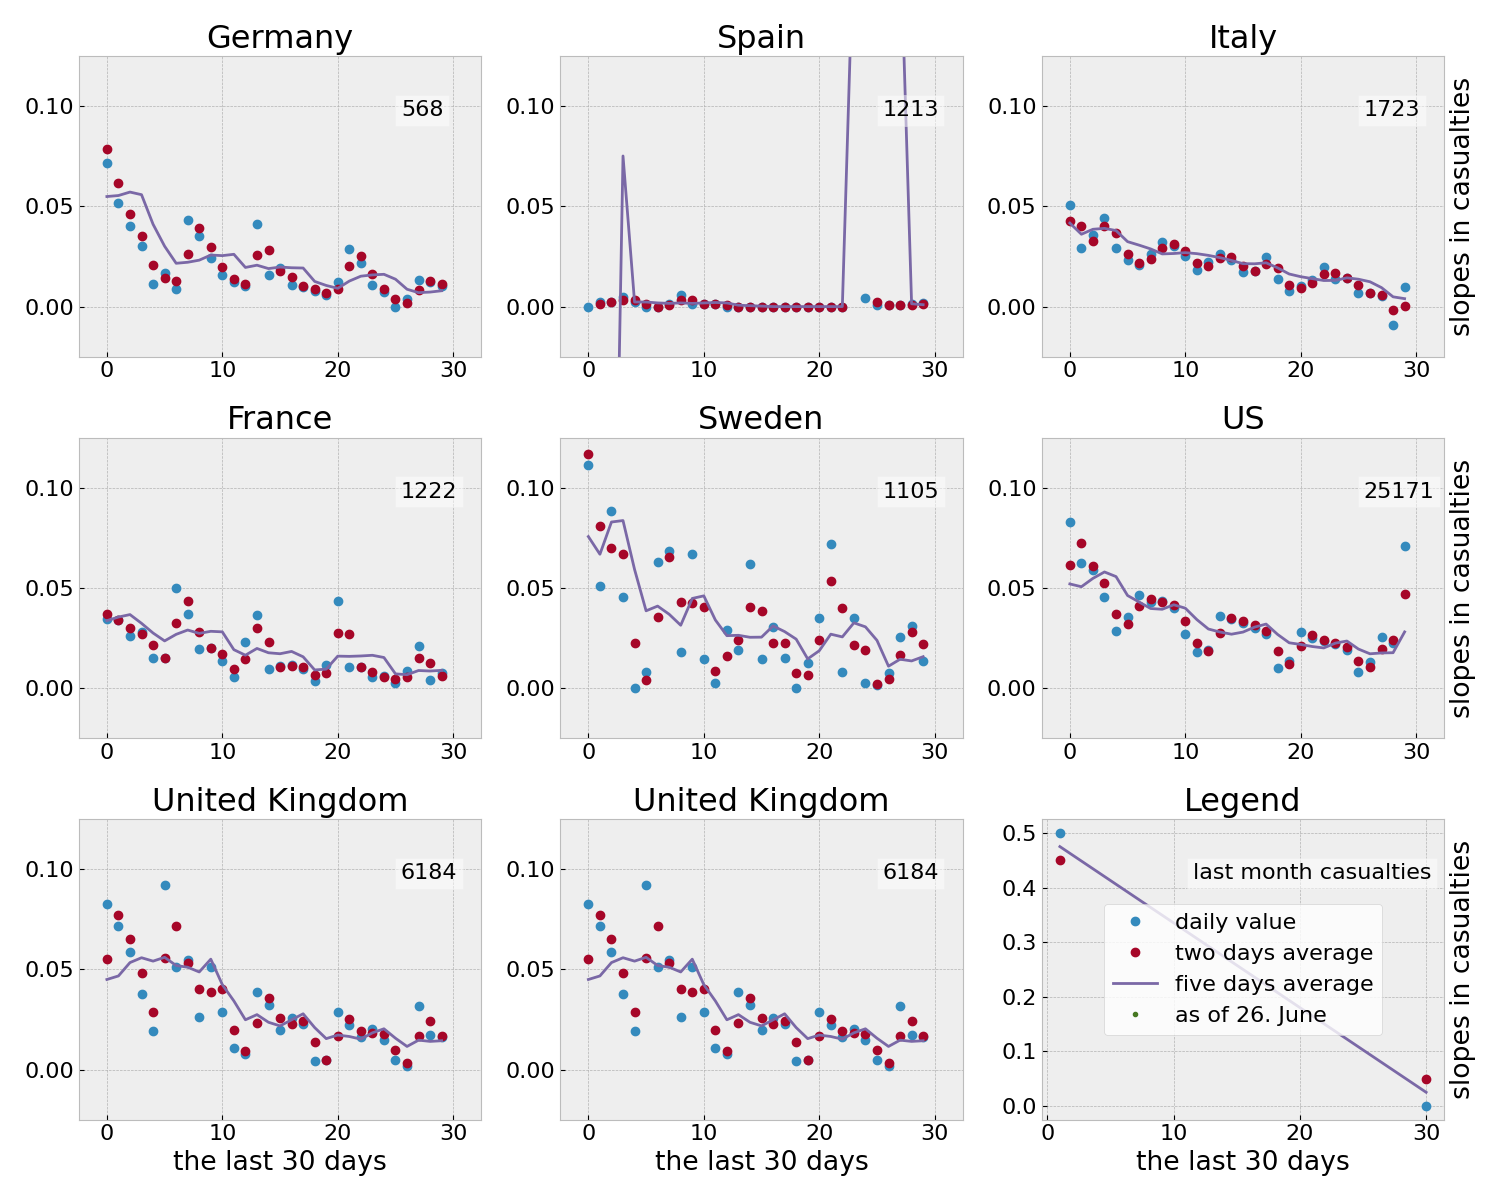
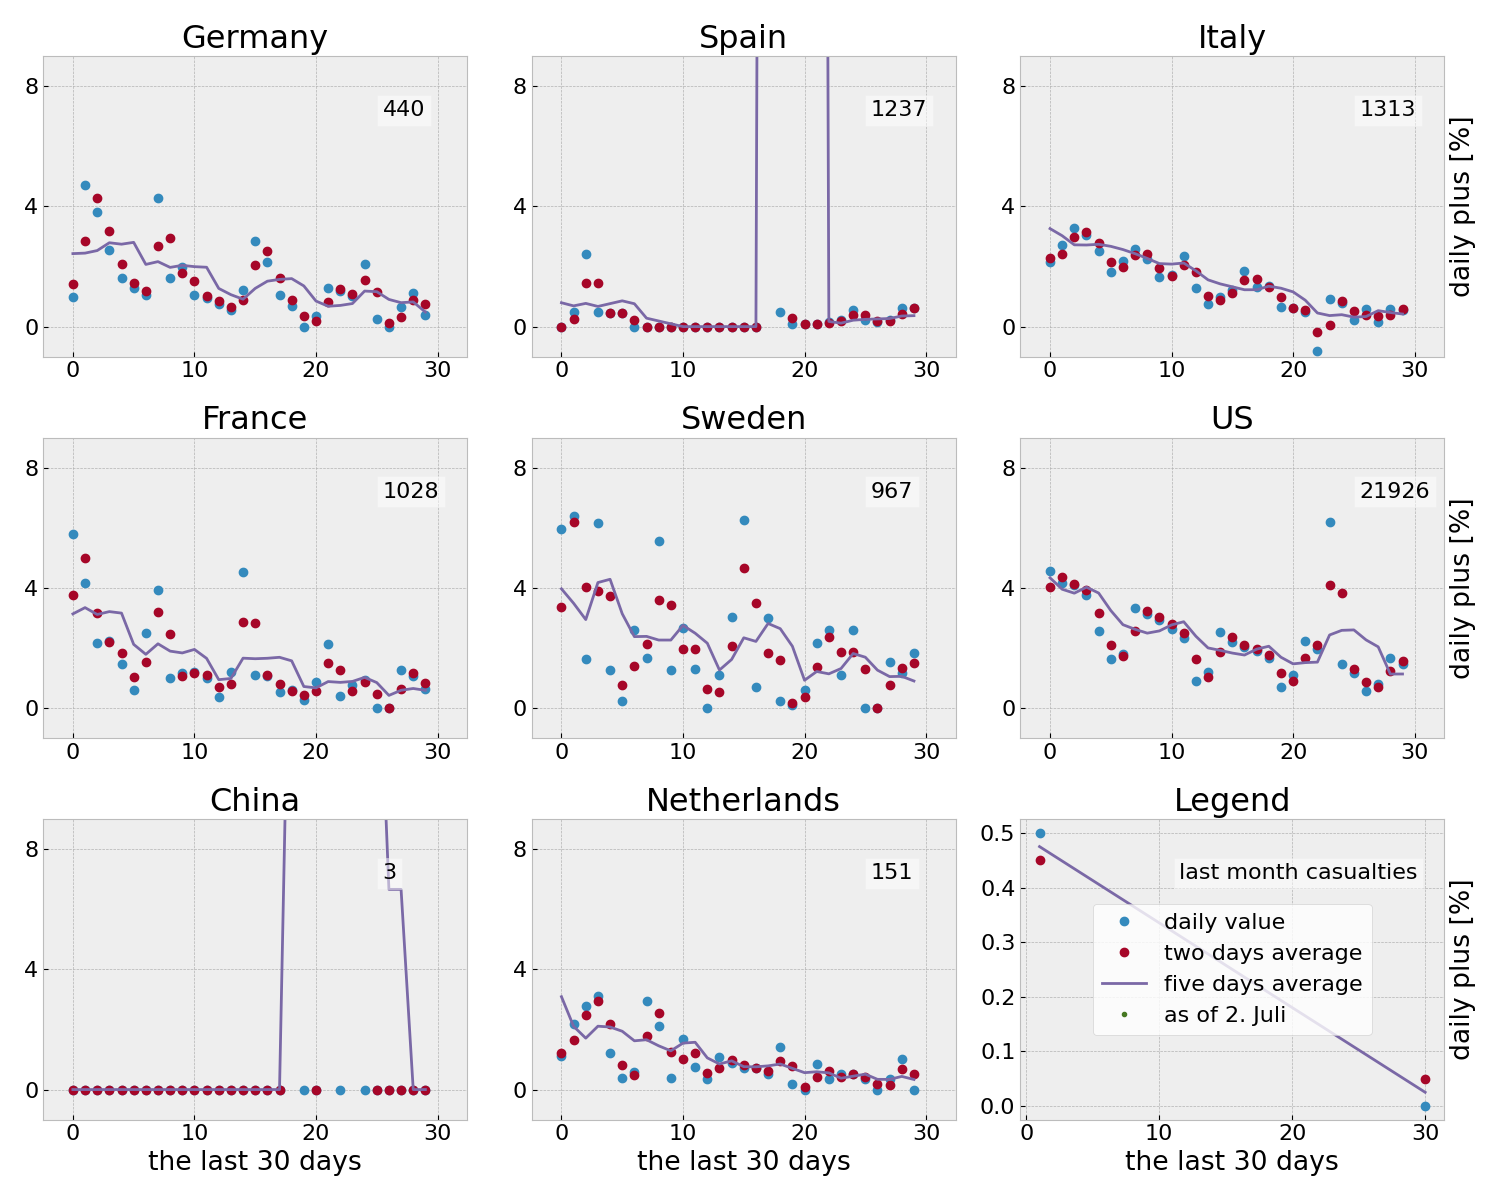
lecture 8.3

diff --git a/content/courses/ovgu-mathe-informatik/_index.md b/content/courses/ovgu-mathe-informatik/_index.md
@@ -31,16 +31,22 @@ Informatik* im Sommersemester 2020 an der OVGU.
 | Datum | Event | Link |
 | ------- | ---------- | ---- |
 | :boom: Fr: 19.06., 9:00 | Feedback Runde | Siehe unten :point_down: |
-| Mi: 24.06., 9:00 | Vorlesung 8.1 | [8 Integration 2 (1/3)]({{< relref "omi-8" >}}) |
-| :boom: Fr: 26.06., 9:00 | Vorlesung 8.2 | [8 Integration 2 (2/3)]({{< relref "omi-8/#8-2-normalbereiche-und-transformationssatz" >}}) |
-| :hourglass: Fr: 26.06., 14:30 | :telephone_receiver: Sprechstunde | Optional, Anmeldung per Email oder Mattermost |
-| Mi: 01.07., 9:00 | Vorlesung 8.1 | 8 Integration 2 (3/3) |
-| Mi: 01.07., 10:15 | Live-Wrapup Vorlesung 8 | [Youtube live](https://www.youtube.com/c/JanHeiland/live) - [Mattermost](http://mm.cs.ovgu.de/mathe-info-2/channels/8-wrapup-int2) |
+| Fr: 26.06., 9:00 | Vorlesung 8.2 | [8 Integration 2 (2/3)]({{< relref "omi-8/#8-2-normalbereiche-und-transformationssatz" >}}) |
+| 01.07., 9:00 | Totalausfall | wird aber kompensiert |
+| :boom: Mi: Fr: 03.07., 9:00 | Vorlesung 8.3 | [8 Integration 2 (3/3)]({{< relref "omi-8/#8-3-transformationssatz-und-polarkoordinaten" >}}) |
+| :hourglass: Mi: Fr: 03.07., 14:30 | Live-Wrapup Vorlesung 8 | [Youtube live](https://www.youtube.com/c/JanHeiland/live) - [Mattermost](http://mm.cs.ovgu.de/mathe-info-2/channels/8-wrapup-int2) |
 
 <!-- 
 | :boom: Mi: 13.05., 9:00 | Vorlesung 3.1 | [3 Differenzierbarkeit 1 (1/2)]({{< relref "omi-3" >}}) |
 | Fr: 12.06., 14:30 | Live-Wrapup Vorlesung 7 | [Youtube live](https://www.youtube.com/c/JanHeiland/live) - [Mattermost](http://mm.cs.ovgu.de/mathe-info-2/channels/0612-wrapup-diff2) |
  -->
+
+{{% alert note %}}
+**Ausfall** Liebe Student'innen, die Vorlesung vom 01.07. f&auml;llt leider aus.
+Daf&uuml;r werde ich aber mir das Feedback zu Herzen nehmen und im Hinblick auf
+die Klausur eine extra Runde Beispiele pr&auml;sentieren und L&ouml;sungstechniken 
+pr&auml;sentieren.
+{{% /alert %}}
 
 {{% alert warning %}}
 

diff --git a/content/post/covid-19-trends/index.md b/content/post/covid-19-trends/index.md
@@ -186,13 +186,13 @@ Since we look at the relative growth, so called *saturation effects* will make
 changes less visible. This happens in particular, with a high number of
 casualties but a low number of active cases. In the long run, exponential growth
 will still be visible, but also the short term dynamics are of interest. For
-example to spot the start of a *second wave*.
+example, to spot the start of a *second wave*.
 
 That's why the following plots consider the daily numbers for the last 40 days
 (leaving aside all cases that happened before)
-and show the logarithmic slopes and the casualties for the last 30 days. 
+and show the daily increase of the number casualties in percent for the last 30 days. 
  
-{{< figure src="lmslps-dsifc.png" title="The slopes of a logarithmic plot of the accumulated casualties (counting from 40 days ago) for a number of countries and the total numbers for the last month.  The first 5 countries are always shown. The other 3 countries change occasionally. See the [pdf](lmslps-dsifc.pdf) for all countries." lightbox="true" >}}
+{{< figure src="lmslps-dsifc.png" title="The daily change accumulated casualties (in percent, counting from 40 days ago) for a number of countries and the total numbers of casualties for the last month. The first 5 countries are always shown. The other 3 countries change occasionally. See the [pdf](lmslps-dsifc.pdf) for all countries." lightbox="true" >}}
 
 # Notes and Acknowledgements
 

diff --git a/content/courses/ovgu-mathe-informatik/omi-8.md b/content/courses/ovgu-mathe-informatik/omi-8.md
@@ -43,6 +43,21 @@ Das ist wieder eine dreiteilige Vorlesung
 
  * [Kapitel 18 im Skript](https://paperhive.org/documents/items/Q5_T1IK-vd5c?a=s:ZXMh5ja_wlDW).
 
+## 8-3 Transformationssatz und Polarkoordinaten
+
+[das ganze als PNG](../files/8-3-lecture.png)
+
+{{< youtube PFTo1CXbVuc >}}
+
+### Shownotes
+
+ * [Kapitel 18 im Skript](https://paperhive.org/documents/items/Q5_T1IK-vd5c?a=s:ZXMh5ja_wlDW).
+
+ * Die [Umkehrung der Transformation in Polarkoordinaten](https://de.wikipedia.org/wiki/Polarkoordinaten#Umrechnung_von_kartesischen_Koordinaten_in_Polarkoordinaten).
+ * Ein gegl&uuml;cktes Bild der Kugelkoordinaten:
+
+<a title="Ag2gaeh / CC BY-SA (https://creativecommons.org/licenses/by-sa/4.0)" href="https://commons.wikimedia.org/wiki/File:Kugelkoord-def.svg"><img width="256" alt="Kugelkoord-def" src="https://upload.wikimedia.org/wikipedia/commons/thumb/6/69/Kugelkoord-def.svg/256px-Kugelkoord-def.svg.png"></a>
+
 <!--
 ## Wrapup Differenzierbarkeit
 
